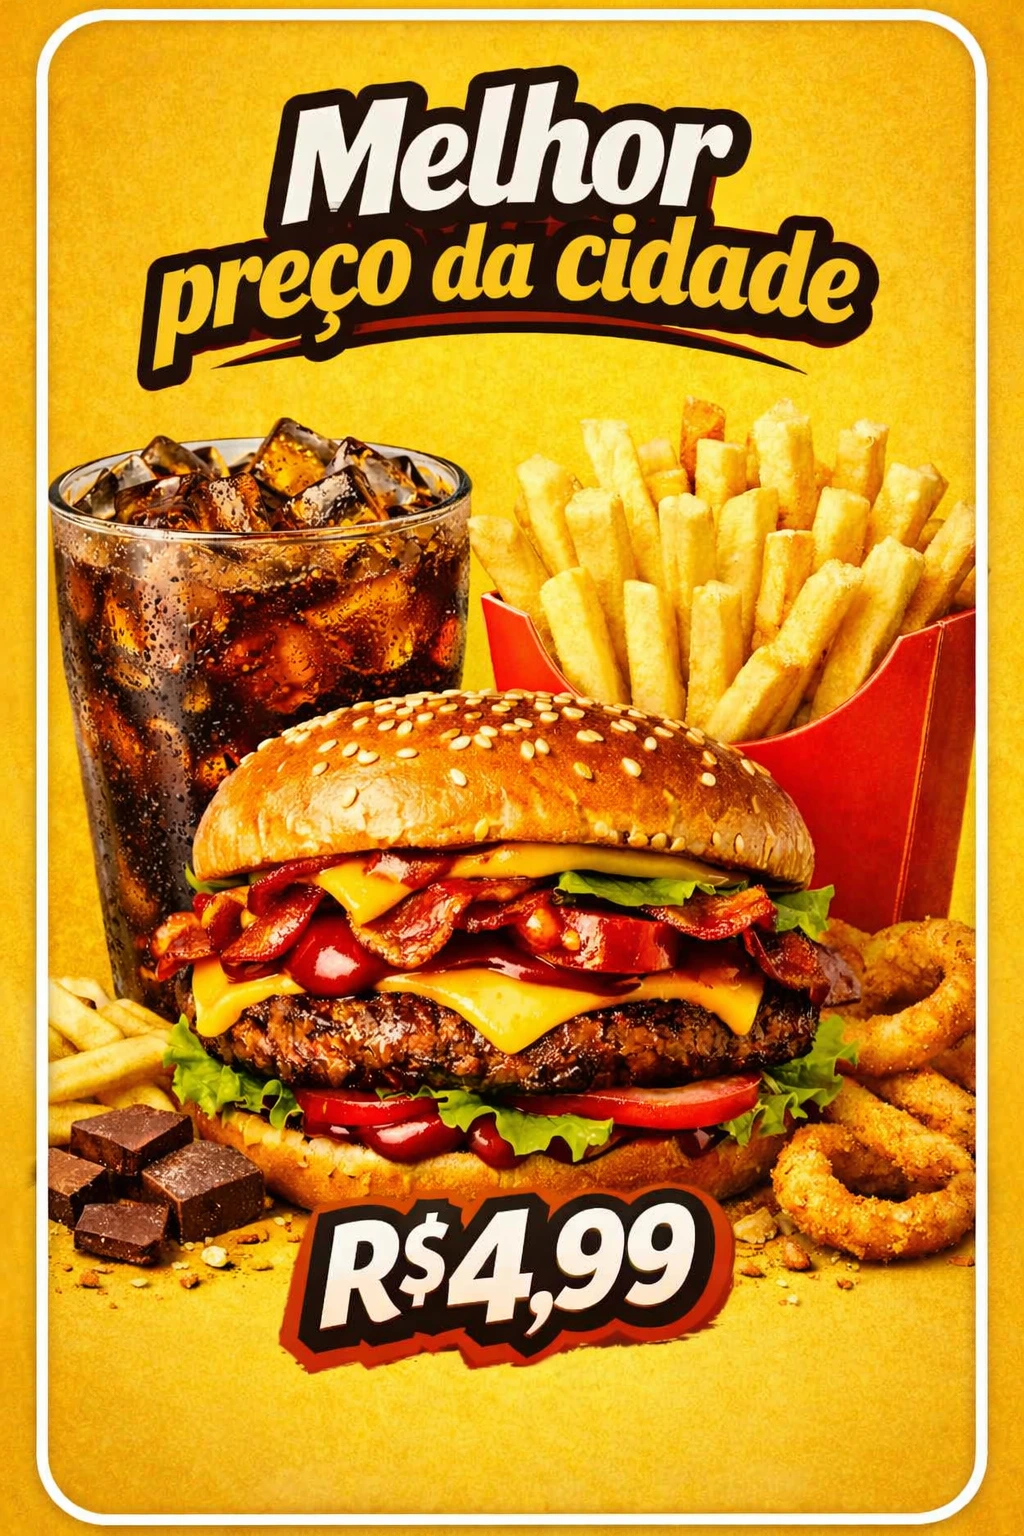
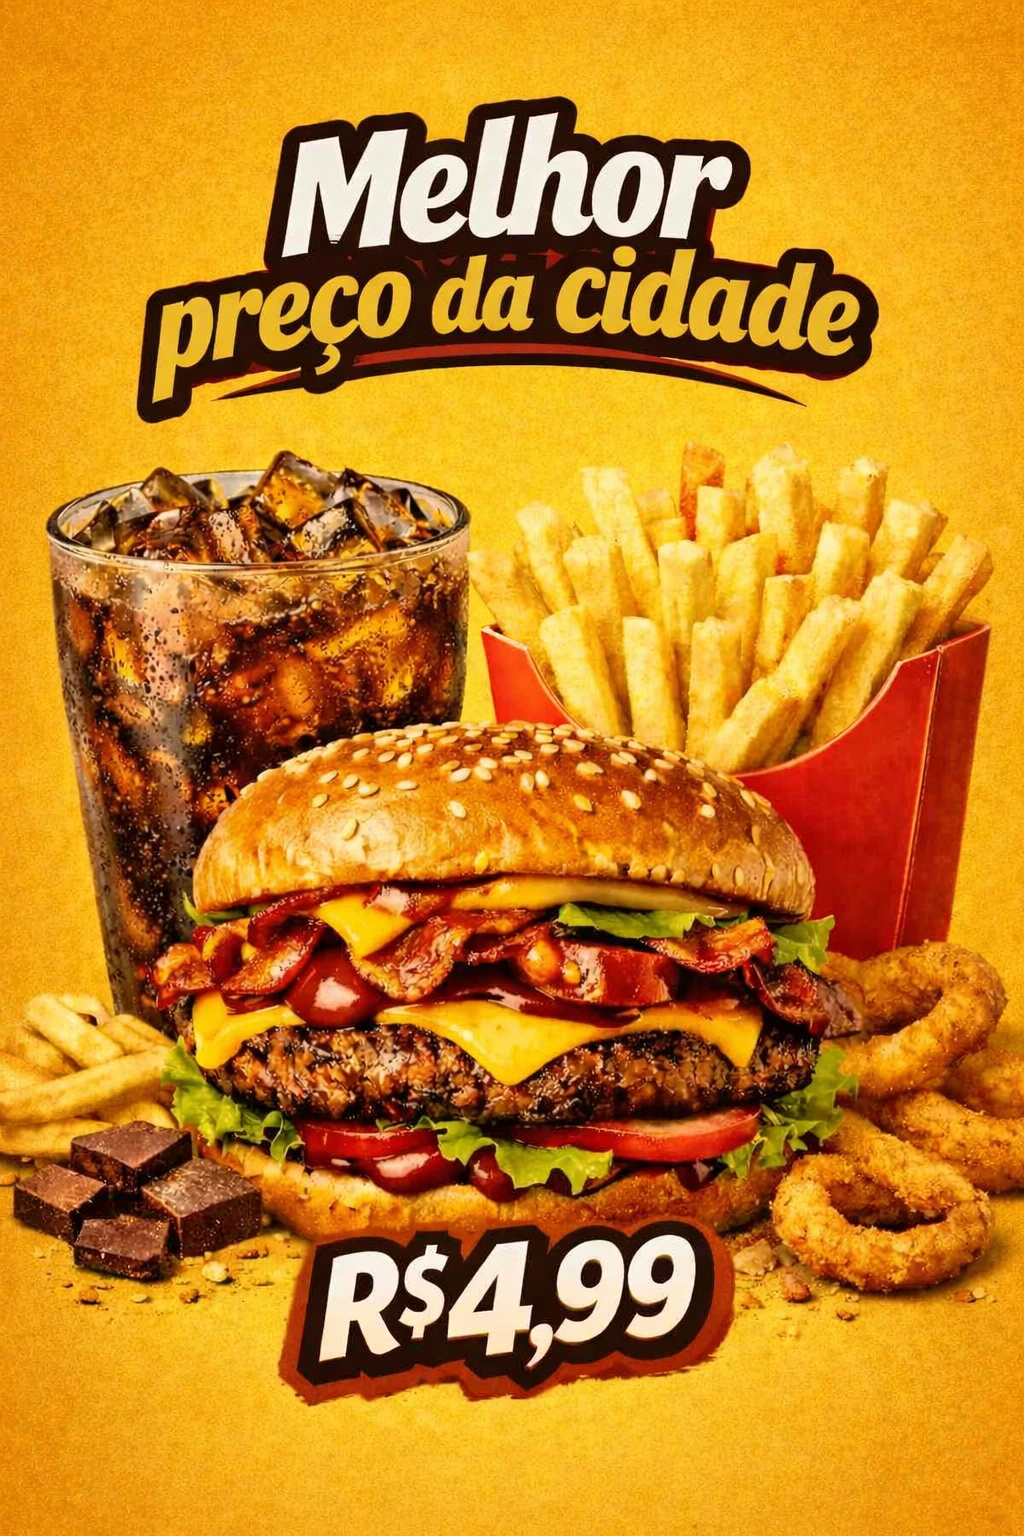
imagens arrumadas

diff --git a/dispositivosMoveis.css b/dispositivosMoveis.css
@@ -48,17 +48,21 @@
         align-items: center;
     }
 
-    
+    .carousel {
+        aspect-ratio: 2/3;
+    }
 
     .carousel, .segundo-carousel {
         position: relative;
         width: 100%;
-        height: 750px;
+    
         overflow: hidden;
     }
 
     .segundo-carousel {
         margin: 1px 15px 15px 15px;
+        aspect-ratio: 1/1;
+        box-sizing: border-box;
     }
 
     .carousel img, .segundo-carousel img{
@@ -66,7 +70,8 @@
         top: 0;
         left: 100%;
         width: 100%;
-        height: auto;
+        height: 100%;
+        object-fit: cover;
         transition: left 1s ease;
         
     }